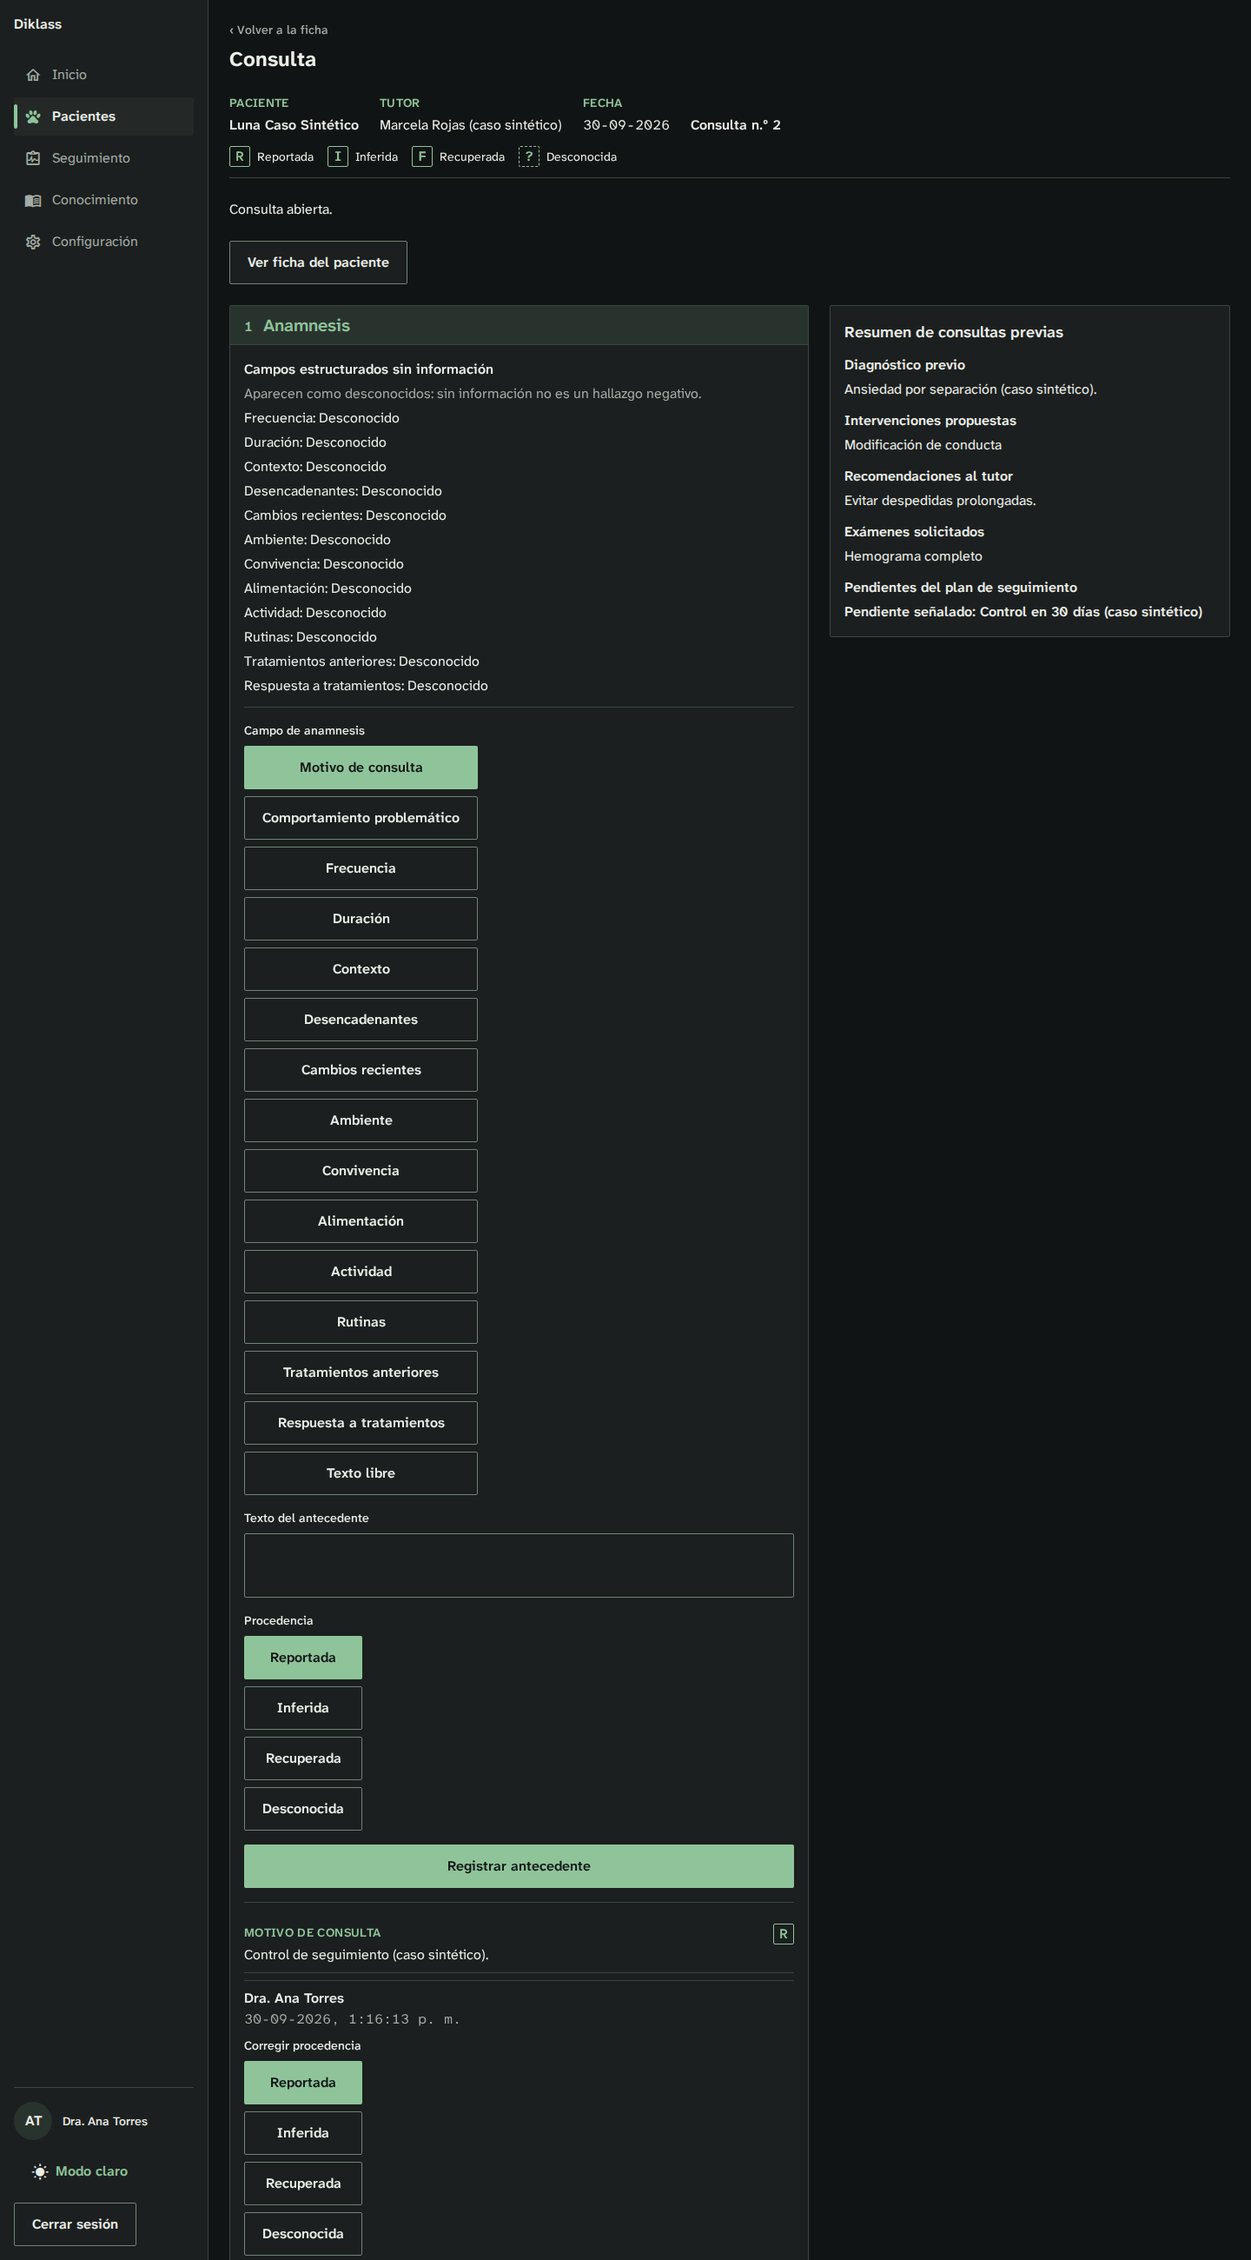
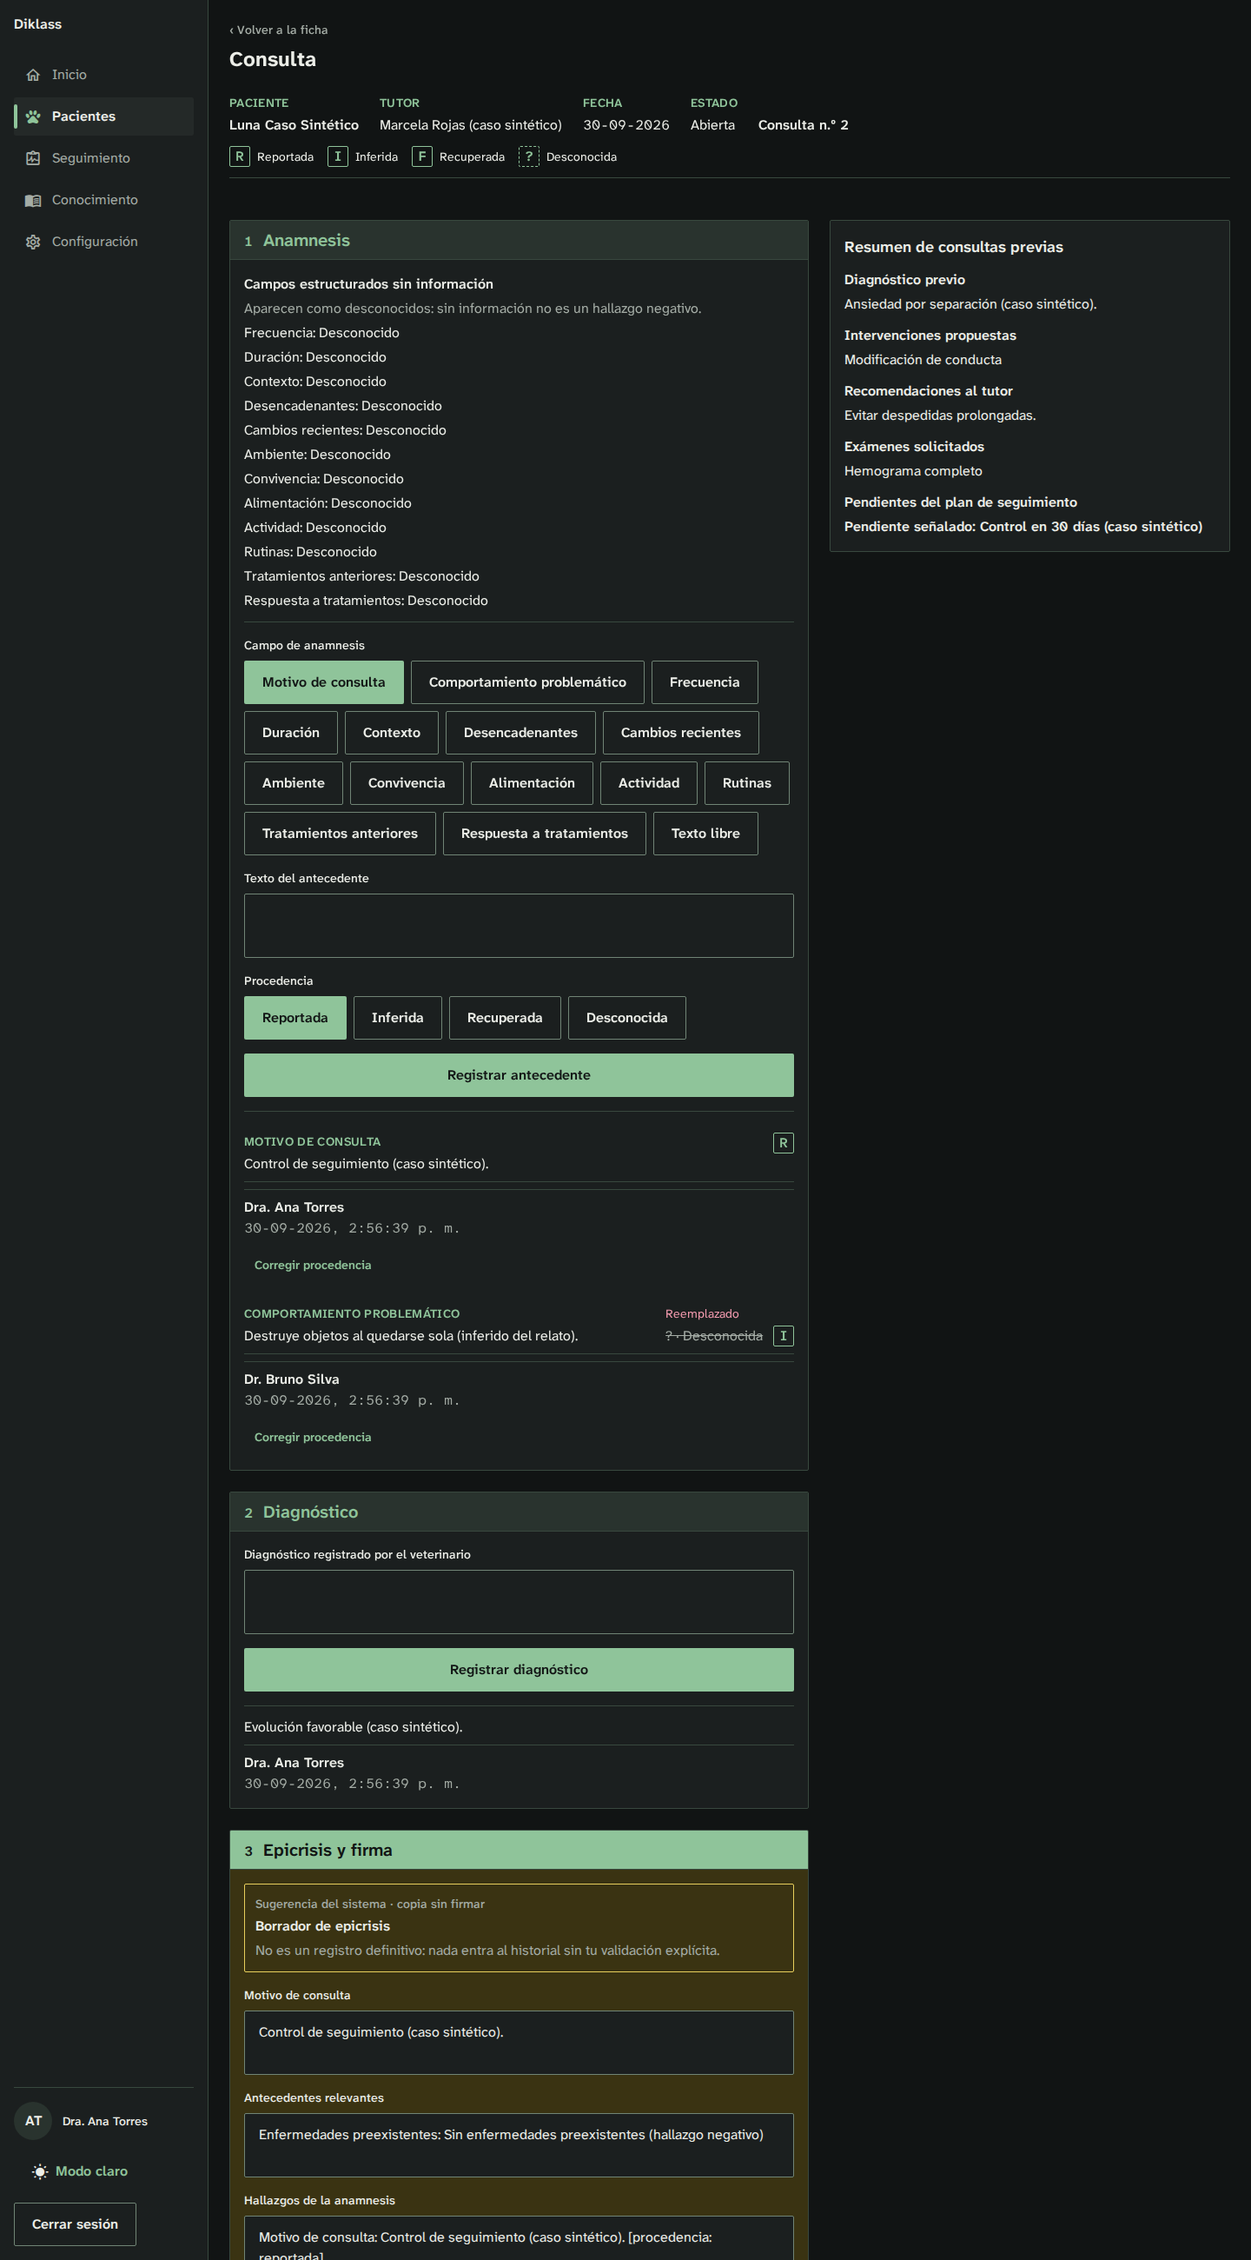
fix(registro): correcciones de la revisión final de D20 (12.12)
OptionPicker en fila con salto de línea (VStack imponía flex-col) y
opciones que encogen hasta el ancho de la fila; «Corregir procedencia»
tras un botón por entrada; banda activa inicial según el paso siguiente
del protocolo; estado de la consulta en el encabezado y retirada de «Ver
ficha del paciente». Aclaraciones registradas en D20.

Changed region(s): [[0.1875, 0.0935, 0.9062, 0.6854], [0.1562, 0.7165, 0.6562, 1.0], [0.5625, 0.0312, 0.5938, 0.0623]]

diff --git a/src/app/(protected)/(patients)/consultations/[id].tsx b/src/app/(protected)/(patients)/consultations/[id].tsx
@@ -1,10 +1,11 @@
 import { useQuery, useQueryClient } from "@tanstack/react-query";
-import { Link, useLocalSearchParams } from "expo-router";
+import { useLocalSearchParams } from "expo-router";
 import { useCallback, useEffect, useState } from "react";
 import { Animated, StyleSheet } from "react-native";
 import { AttributionBadge } from "@/components/clinical/attribution-badge";
 import { CorrectionHistory } from "@/components/clinical/correction-history";
 import { CorrectionLine } from "@/components/clinical/correction-line";
+import { initialActiveSection, type SectionNumber } from "@/components/registro/active-section";
 import { type AnamnesisEntryView, AnamnesisSection } from "@/components/registro/anamnesis-section";
 import { ConsultationHeader } from "@/components/registro/consultation-header";
 import { type DiagnosisEntryView, DiagnosisSection } from "@/components/registro/diagnosis-section";
@@ -199,7 +200,7 @@ export default function ConsultationScreen() {
   const [savedAttribution, setSavedAttribution] = useState<Attribution | null>(null);
   const [isBusy, setIsBusy] = useState(false);
   // Última sección editada (D20): su banda se marca en `primary` sólido.
-  const [activeSection, setActiveSection] = useState<1 | 2 | 3 | null>(null);
+  const [editedSection, setActiveSection] = useState<SectionNumber | null>(null);
   const colors = useThemeColors();
 
   const workspaceQuery = useQuery({
@@ -294,6 +295,12 @@ export default function ConsultationScreen() {
       : draftEdits !== null && draftEdits.sourceId === draftEntry.record.id
         ? draftEdits.content
         : draftEntry.content;
+  // Última sección editada o, al cargar, el paso siguiente del protocolo (aclaración de D20).
+  const activeSection =
+    editedSection ??
+    (data === null
+      ? null
+      : initialActiveSection({ isClosed: data.isClosed, hasDraft: draftEntry !== null }));
   const signature = useSignatureMotion(data !== null && !data.isClosed && draftContent !== null);
   const anamnesisViews: AnamnesisEntryView[] =
     data === null
@@ -585,22 +592,14 @@ export default function ConsultationScreen() {
             createdAt={data.consultation.record.created_at}
             ordinal={data.header.ordinal}
             patientName={data.header.patientName}
+            status={data.isClosed ? "closed" : "open"}
             tutorName={data.header.tutorName}
           />
+          {/* Mensajes de las operaciones; el estado de la consulta va en el encabezado (D20). */}
           <Text accessibilityLiveRegion="polite" testID="consultation-status">
-            {status ?? (data.isClosed ? "Consulta cerrada." : "Consulta abierta.")}
+            {status ?? ""}
           </Text>
           {savedAttribution ? <AttributionBadge attribution={savedAttribution} /> : null}
-          <Link asChild href={`/patients/${data.consultation.content.patientId}`}>
-            <Button
-              accessibilityLabel="Ver ficha del paciente"
-              className="self-start"
-              testID="consultation-patient"
-              variant="outline"
-            >
-              <ButtonText>Ver ficha del paciente</ButtonText>
-            </Button>
-          </Link>
           {/*
            * Dos columnas desde `lg` (design.md D9): el contexto de solo lectura va primero en el
            * DOM —como en móvil, donde precede a la anamnesis— y a la derecha en escritorio. Al no

diff --git a/src/components/registro/anamnesis-section.tsx b/src/components/registro/anamnesis-section.tsx
@@ -1,3 +1,4 @@
+import { useState } from "react";
 import { AttributionBadge } from "@/components/clinical/attribution-badge";
 import { ProvenanceCorrection } from "@/components/clinical/correction-line";
 import {
@@ -64,6 +65,8 @@ export function AnamnesisSection({
   onSubmit,
   onCorrectProvenance,
 }: AnamnesisSectionProps) {
+  // Entrada cuya procedencia se está corrigiendo; el resto muestra solo el botón.
+  const [correcting, setCorrecting] = useState<string | null>(null);
   const unknownFields = ANAMNESIS_STRUCTURED_ORDER.filter(
     (candidate) => !entries.some((entry) => entry.content.field === candidate),
   );
@@ -158,14 +161,30 @@ export function AnamnesisSection({
               {entry.content.text}
             </Field>
             <AttributionBadge attribution={entry.attribution} />
-            {isSealed ? null : (
+            {isSealed ? null : correcting === entry.id ? (
               <OptionPicker
                 label="Corregir procedencia"
-                onChange={(next) => onCorrectProvenance(entry.id, next)}
+                onChange={(next) => {
+                  setCorrecting(null);
+                  onCorrectProvenance(entry.id, next);
+                }}
                 options={PROVENANCE_OPTIONS}
                 testID="anamnesis-provenance-correct"
                 value={entry.content.provenance}
               />
+            ) : (
+              // Plegado tras un botón para no repetir cuatro opciones bajo cada registro (D20).
+              <Button
+                accessibilityLabel={`Corregir procedencia de ${ANAMNESIS_FIELD_LABELS[entry.content.field]}`}
+                className="self-start"
+                isDisabled={isBusy}
+                onPress={() => setCorrecting(entry.id)}
+                size="sm"
+                testID="anamnesis-provenance-correct-toggle"
+                variant="ghost"
+              >
+                <ButtonText>Corregir procedencia</ButtonText>
+              </Button>
             )}
           </VStack>
         ))

diff --git a/tests/unit/registro/anamnesis-section.test.tsx b/tests/unit/registro/anamnesis-section.test.tsx
@@ -1,0 +1,46 @@
+import { describe, expect, mock, test } from "bun:test";
+import { QueryClient, QueryClientProvider } from "@tanstack/react-query";
+import { renderToStaticMarkup } from "react-dom/server";
+
+mock.module("@/features/clinical/use-veterinarian-display-name", () => ({
+  useVeterinarianDisplayName: () => ({ data: "Dra. Prueba" }),
+}));
+const { AnamnesisSection } = await import("@/components/registro/anamnesis-section");
+
+const html = renderToStaticMarkup(
+  <QueryClientProvider client={new QueryClient()}>
+    <AnamnesisSection
+      entries={[
+        {
+          id: "a1",
+          content: {
+            consultationId: "c1",
+            field: "motivo_consulta",
+            text: "Vocaliza de noche",
+            provenance: "inferida",
+          },
+          attribution: { actorId: "v1", occurredAt: "2026-09-30T10:00:00Z", action: null },
+        },
+      ]}
+      field="motivo_consulta"
+      isBusy={false}
+      onCorrectProvenance={() => {}}
+      onFieldChange={() => {}}
+      onProvenanceChange={() => {}}
+      onSubmit={() => {}}
+      onTextChange={() => {}}
+      provenance="reportada"
+      text=""
+      textError={null}
+    />
+  </QueryClientProvider>,
+);
+
+// Aclaración de D20 (2026-09-30): «Corregir procedencia» queda tras un botón por entrada.
+describe("AnamnesisSection", () => {
+  test("la corrección de procedencia está plegada tras un botón", () => {
+    expect(html).toContain('aria-label="Corregir procedencia de Motivo de consulta"');
+    expect(html).not.toContain('aria-label="Corregir procedencia"');
+    expect(html).not.toContain('data-testid="anamnesis-provenance-correct"');
+  });
+});

diff --git a/src/components/registro/option-picker.tsx b/src/components/registro/option-picker.tsx
@@ -1,5 +1,5 @@
 import { useRef } from "react";
-import type { View } from "react-native";
+import { View } from "react-native";
 import { Button, ButtonText } from "@/components/ui/button";
 import { FormControlLabel, FormControlLabelText } from "@/components/ui/form-control";
 import { VStack } from "@/components/ui/vstack";
@@ -59,7 +59,8 @@ export function OptionPicker<T extends string>({
       <FormControlLabel>
         <FormControlLabelText>{label}</FormControlLabelText>
       </FormControlLabel>
-      <VStack
+      {/* `View` y no `VStack`: su `flex-col` ganaba a `flex-row` y apilaba las opciones. */}
+      <View
         accessibilityLabel={label}
         accessibilityRole="radiogroup"
         className="flex-row flex-wrap gap-2"
@@ -75,6 +76,8 @@ export function OptionPicker<T extends string>({
               accessibilityRole="radio"
               aria-checked={isSelected}
               accessibilityState={{ checked: isSelected, disabled: isDisabled }}
+              // En una fila, RN no encoge a los hijos: sin tope, una etiqueta larga desborda.
+              className="max-w-full"
               isDisabled={isDisabled}
               key={option.value}
               onPress={() => onChange(option.value)}
@@ -92,7 +95,7 @@ export function OptionPicker<T extends string>({
             </Button>
           );
         })}
-      </VStack>
+      </View>
     </VStack>
   );
 }

diff --git a/tests/e2e/web/accessibility.spec.ts b/tests/e2e/web/accessibility.spec.ts
@@ -279,7 +279,7 @@ test.describe("compuerta de accesibilidad del registro clínico (D12 · tarea 5.
       const controles = await page.evaluate(() =>
         Array.from(document.querySelectorAll<HTMLElement>("[data-testid]"))
           .filter((el) =>
-            /^(home-(patients|follow-up|knowledge)|patients-register|patient-open|history-open|consultation-patient|follow-up-open|conocimiento-incorporar|ver-fuente-.+|ver-contexto-.+)$/.test(
+            /^(home-(patients|follow-up|knowledge)|patients-register|patient-open|history-open|screen-back|follow-up-open|conocimiento-incorporar|ver-fuente-.+|ver-contexto-.+)$/.test(
               el.dataset.testid ?? "",
             ),
           )
@@ -306,13 +306,13 @@ test.describe("compuerta de accesibilidad del registro clínico (D12 · tarea 5.
     // depende de que la base local tenga fuentes, así que no se exige.
     expect([...encontrados]).toEqual(
       expect.arrayContaining([
-        "consultation-patient",
         "follow-up-open",
         "history-open",
         "home-follow-up",
         "home-knowledge",
         "home-patients",
         "patient-open",
+        "screen-back",
         "patients-register",
         "conocimiento-incorporar",
       ]),

diff --git a/tests/e2e/web/caso-sintetico.ts b/tests/e2e/web/caso-sintetico.ts
@@ -313,13 +313,12 @@ export function syntheticScreens(caseIds: SyntheticCase): SyntheticScreen[] {
       url: `/consultations/${caseIds.openConsultationId}`,
       readyTestID: "anamnesis-section",
       keyboardTestIDs: [
-        "consultation-patient",
+        "screen-back",
         "anamnesis-field-motivo-consulta",
         "anamnesis-text",
         "anamnesis-provenance-reportada",
         "anamnesis-submit",
-        "anamnesis-provenance-correct-reportada",
-        "anamnesis-provenance-correct-inferida",
+        "anamnesis-provenance-correct-toggle",
         "diagnosis-text",
         "diagnosis-submit",
         "epicrisis-generate",
@@ -329,7 +328,7 @@ export function syntheticScreens(caseIds: SyntheticCase): SyntheticScreen[] {
       name: "consulta cerrada con epicrisis corregida",
       url: `/consultations/${caseIds.closedConsultationId}`,
       readyTestID: "epicrisis-correction-history",
-      keyboardTestIDs: ["consultation-patient", "epicrisis-correct"],
+      keyboardTestIDs: ["screen-back", "epicrisis-correct"],
     },
     // sistema-visual 5.1: rutas que la compuerta no cubría (quickstart 1.4).
     {

diff --git a/tests/unit/registro/option-picker.test.tsx b/tests/unit/registro/option-picker.test.tsx
@@ -28,6 +28,22 @@ function render(isDisabled: boolean) {
 
 // Regresión de la sustitución de colores inline por variantes (sistema-visual, tarea 1.5 · FR-081).
 describe("OptionPicker", () => {
+  // Revisión final de D20: las opciones fluyen en fila; `VStack` imponía `flex-col`.
+  test("las opciones van en fila con salto de línea", () => {
+    const { html } = render(false);
+    const grupo = html.match(/<div[^>]*role="radiogroup"[^>]*>/)?.[0] ?? "";
+    const cls = grupo.match(/data-class="([^"]*)"/)?.[1]?.split(/\s+/) ?? [];
+    expect(cls).toEqual(expect.arrayContaining(["flex-row", "flex-wrap"]));
+    expect(cls).not.toContain("flex-col");
+  });
+
+  // Regresión del reflujo a 320 px: en una fila de RN los hijos no encogen; una opción con
+  // etiqueta larga desbordaba el panel de seguimiento.
+  test("cada opción puede encoger hasta el ancho de la fila", () => {
+    const { option } = render(false);
+    expect(option("sex-hembra")).toContain("max-w-full");
+  });
+
   test.each([false, true])(
     "con isDisabled=%p expone el estado checked de cada opción",
     (disabled) => {

diff --git a/src/components/registro/consultation-header.tsx b/src/components/registro/consultation-header.tsx
@@ -9,6 +9,7 @@ export type ConsultationHeaderProps = {
   /** Posición de la consulta entre las del paciente, por `created_at`; `null` si no se sabe. */
   ordinal: number | null;
   createdAt: string;
+  status: "open" | "closed";
 };
 
 /**
@@ -20,6 +21,7 @@ export function ConsultationHeader({
   tutorName,
   ordinal,
   createdAt,
+  status,
 }: ConsultationHeaderProps) {
   const fecha = new Date(createdAt).toLocaleDateString("es-CL", {
     day: "2-digit",
@@ -48,6 +50,10 @@ export function ConsultationHeader({
           <Text selectable variant="data">
             {fecha}
           </Text>
+        </View>
+        <View className="gap-1">
+          <Text variant="rubric">Estado</Text>
+          <Text testID="consultation-state">{status === "closed" ? "Cerrada" : "Abierta"}</Text>
         </View>
         {ordinal === null ? null : (
           <View className="justify-end">

diff --git a/tests/unit/ui/form-section.test.tsx b/tests/unit/ui/form-section.test.tsx
@@ -49,9 +49,16 @@ describe("ConsultationHeader", () => {
       createdAt="2026-09-30T13:05:00Z"
       ordinal={3}
       patientName="Kira"
+      status="open"
       tutorName="Sra. Tania Rojas"
     />,
   ).replace(/<!-- -->/g, "");
+
+  // Aclaración de D20: el estado es un campo rotulado del encabezado.
+  test("el estado de la consulta es un campo rotulado", () => {
+    expect(html).toMatch(/uppercase[^>]*>Estado</);
+    expect(html).toContain(">Abierta<");
+  });
 
   test("muestra paciente, tutor y «Consulta n.º N»", () => {
     expect(html).toContain(">Kira<");
@@ -74,6 +81,7 @@ describe("ConsultationHeader", () => {
         createdAt="2026-09-30T13:05:00Z"
         ordinal={null}
         patientName="Kira"
+        status="closed"
         tutorName={null}
       />,
     );

diff --git a/tests/unit/registro/active-section.test.ts b/tests/unit/registro/active-section.test.ts
@@ -1,0 +1,15 @@
+import { describe, expect, test } from "bun:test";
+import { initialActiveSection } from "@/components/registro/active-section";
+
+// Aclaración de D20 (2026-09-30): al cargar, la banda marca el paso siguiente del protocolo.
+describe("initialActiveSection", () => {
+  test("consulta abierta sin borrador → 1 Anamnesis", () => {
+    expect(initialActiveSection({ isClosed: false, hasDraft: false })).toBe(1);
+  });
+  test("con borrador de epicrisis → 3 Epicrisis y firma", () => {
+    expect(initialActiveSection({ isClosed: false, hasDraft: true })).toBe(3);
+  });
+  test("consulta cerrada → ninguna", () => {
+    expect(initialActiveSection({ isClosed: true, hasDraft: false })).toBeNull();
+  });
+});

diff --git a/tests/e2e/web/registro-epicrisis.spec.ts b/tests/e2e/web/registro-epicrisis.spec.ts
@@ -63,7 +63,7 @@ test.describe("registro clínico web", () => {
       await page.getByRole("button", { name: "Firmar y cerrar consulta" }).click();
       await expect(page.getByTestId("consultation-status")).toHaveText(/Epicrisis aprobada/);
 
-      await page.getByRole("link", { name: "Ver ficha del paciente" }).click();
+      await page.getByRole("link", { name: "‹ Volver a la ficha" }).click();
       await expect(page).toHaveURL(new RegExp(`/patients/${patientId}$`));
       // La ficha anterior sigue montada bajo la pila de navegación: solo cuenta la visible.
       const historial = page.getByTestId("history-item").filter({ visible: true });

diff --git a/src/components/registro/active-section.ts b/src/components/registro/active-section.ts
@@ -1,0 +1,16 @@
+export type SectionNumber = 1 | 2 | 3;
+
+/**
+ * Sección activa al cargar la consulta (aclaración de D20, 2026-09-30): el paso siguiente del
+ * protocolo. Después manda la última sección editada.
+ */
+export function initialActiveSection({
+  isClosed,
+  hasDraft,
+}: {
+  isClosed: boolean;
+  hasDraft: boolean;
+}): SectionNumber | null {
+  if (isClosed) return null;
+  return hasDraft ? 3 : 1;
+}
